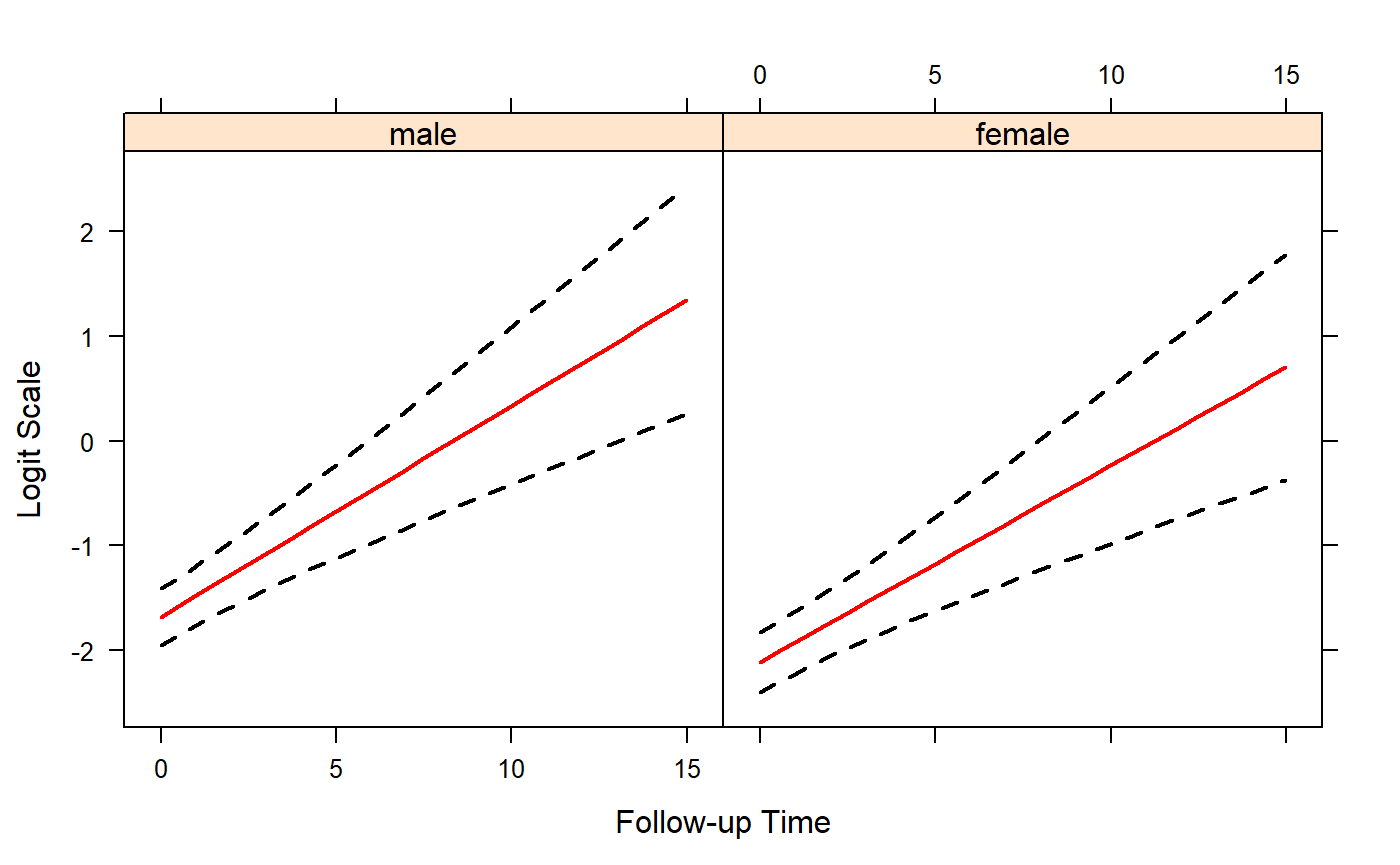
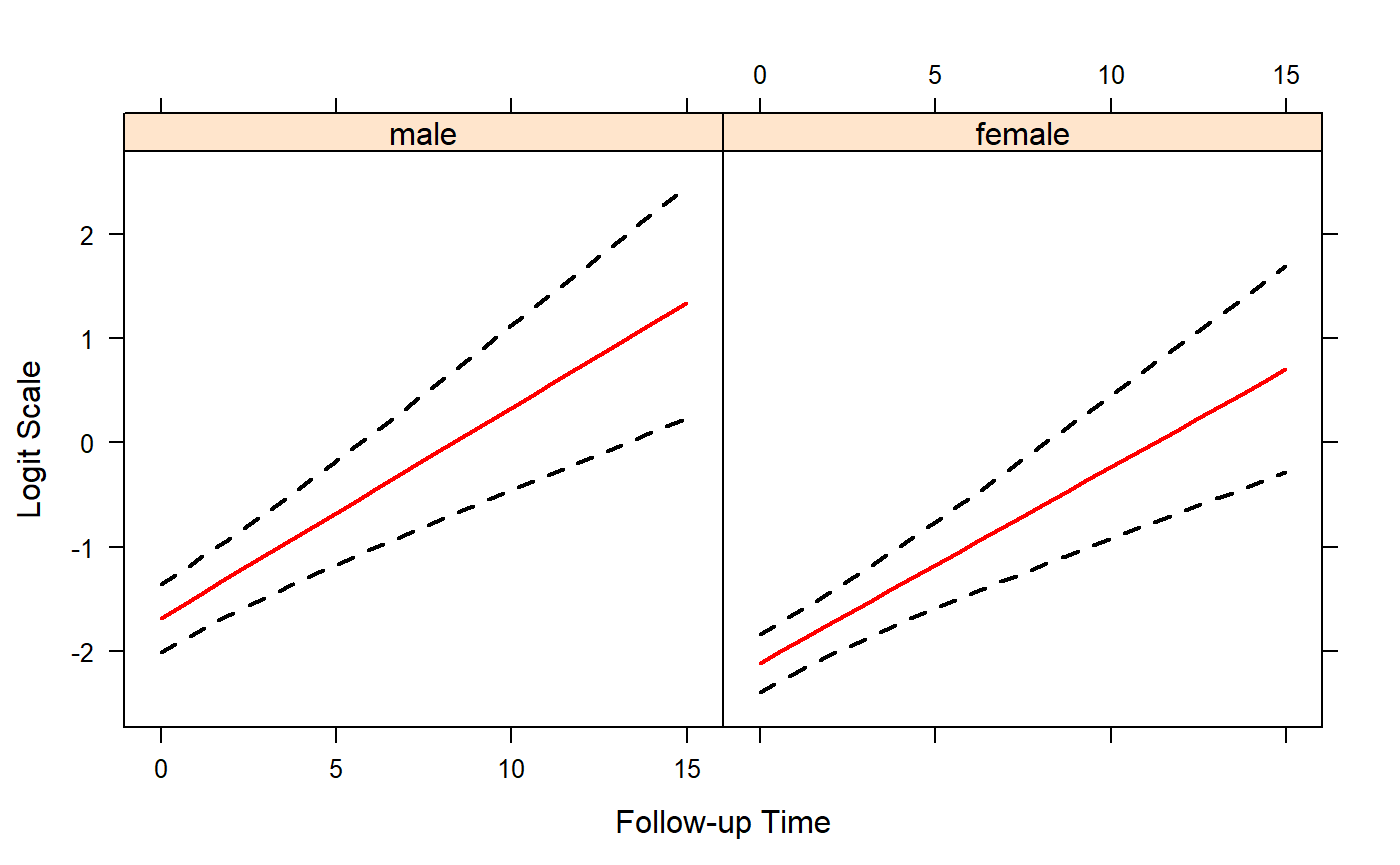
CRAN version 0.3-0

diff --git a/docs/articles/Custom_Models.html b/docs/articles/Custom_Models.html
@@ -30,7 +30,7 @@
       </button>
       <span class="navbar-brand">
         <a class="navbar-link" href="../index.html">GLMMadaptive</a>
-        <span class="label label-default" data-toggle="tooltip" data-placement="bottom" title="Released package">0.2.99</span>
+        <span class="label label-default" data-toggle="tooltip" data-placement="bottom" title="Released package">0.3.0</span>
       </span>
     </div>
 
@@ -60,6 +60,9 @@
     </li>
     <li>
       <a href="../articles/Methods_MixMod.html">Methods for MixMod Objects</a>
+    </li>
+    <li>
+      <a href="../articles/Multiple_Comparisons.html">Methods for MixMod Objects</a>
     </li>
     <li>
       <a href="../articles/ZeroInflated_and_TwoPart_Models.html">Zero-Inflated and Two-Part Mixed Effects Models</a>
@@ -92,7 +95,7 @@
       <h1>Custom Models</h1>
                         <h4 class="author">Dimitris Rizopoulos</h4>
             
-            <h4 class="date">2018-09-24</h4>
+            <h4 class="date">2018-09-27</h4>
       
       <small class="dont-index">Source: <a href="https://github.com/drizopoulos/GLMMadaptive/blob/master/vignettes/Custom_Models.Rmd"><code>vignettes/Custom_Models.Rmd</code></a></small>
       <div class="hidden name"><code>Custom_Models.Rmd</code></div>
@@ -148,7 +151,7 @@ dd<span class="op">$</span>y &lt;-<span class="st"> </span><span class="kw">rnbi
                         <span class="dt">initial_values =</span> <span class="kw">list</span>(<span class="st">"betas"</span> =<span class="st"> </span><span class="kw">poisson</span>()))
 )
 <span class="co">#&gt;    user  system elapsed </span>
-<span class="co">#&gt;     3.8     0.0     3.8</span>
+<span class="co">#&gt;    3.72    0.01    3.74</span>
 
 fm1
 <span class="co">#&gt; </span>
@@ -221,7 +224,7 @@ fm1
                         <span class="dt">initial_values =</span> <span class="kw">list</span>(<span class="st">"betas"</span> =<span class="st"> </span><span class="kw">poisson</span>()))
 )
 <span class="co">#&gt;    user  system elapsed </span>
-<span class="co">#&gt;    1.31    0.03    1.35</span>
+<span class="co">#&gt;    1.42    0.03    1.47</span>
 
 fm2
 <span class="co">#&gt; </span>
@@ -441,11 +444,11 @@ gm
 <span class="co">#&gt;  1.379027 </span>
 <span class="co">#&gt; </span>
 <span class="co">#&gt; log-Lik: 1482.692</span></code></pre></div>
-<p>To depict the results of the model we create an effects plot, showing the longitudinal evolution of the average/median male and female. We start by constructing the data frame that contains the values we want to depict, and using it in the <code><a href="../reference/effectPlotData.html">effectPlotData()</a></code> function:</p>
+<p>To depict the results of the model we create an effects plot, showing the longitudinal evolution of the average/median male and female. We start by constructing the data frame that contains the values we want to depict, and using it in the <code><a href="../reference/effectPlotData.html">effectPlotData()</a></code> function; just for illustration, sandwich/robust standard errors are used in the calculation of the 95% poinwise cofidence intervals:</p>
 <div class="sourceCode"><pre class="sourceCode r"><code class="sourceCode r">nDF &lt;-<span class="st"> </span><span class="kw">with</span>(DF, <span class="kw">expand.grid</span>(<span class="dt">time =</span> <span class="kw">seq</span>(<span class="kw">min</span>(time), <span class="kw">max</span>(time), <span class="dt">length =</span> <span class="dv">25</span>),
                             <span class="dt">sex =</span> <span class="kw">levels</span>(sex)))
 
-plot_data &lt;-<span class="st"> </span><span class="kw"><a href="../reference/effectPlotData.html">effectPlotData</a></span>(gm, nDF)</code></pre></div>
+plot_data &lt;-<span class="st"> </span><span class="kw"><a href="../reference/effectPlotData.html">effectPlotData</a></span>(gm, nDF, <span class="dt">sandwich =</span> <span class="ot">TRUE</span>)</code></pre></div>
 <p>The figure is created with a call to <code>xyplot()</code> from the <a href="https://cran.r-project.org/package=lattice"><strong>lattice</strong></a> package:</p>
 <div class="sourceCode"><pre class="sourceCode r"><code class="sourceCode r"><span class="kw">library</span>(<span class="st">"lattice"</span>)
 <span class="kw">xyplot</span>(pred <span class="op">+</span><span class="st"> </span>low <span class="op">+</span><span class="st"> </span>upp <span class="op">~</span><span class="st"> </span>time <span class="op">|</span><span class="st"> </span>sex, <span class="dt">data =</span> plot_data,

diff --git a/docs/reference/marginal_coefs.html b/docs/reference/marginal_coefs.html
@@ -64,7 +64,7 @@ mixed models." />
       </button>
       <span class="navbar-brand">
         <a class="navbar-link" href="../index.html">GLMMadaptive</a>
-        <span class="label label-default" data-toggle="tooltip" data-placement="bottom" title="Released package">0.2.99</span>
+        <span class="label label-default" data-toggle="tooltip" data-placement="bottom" title="Released package">0.3.0</span>
       </span>
     </div>
 
@@ -94,6 +94,9 @@ mixed models." />
     </li>
     <li>
       <a href="../articles/Methods_MixMod.html">Methods for MixMod Objects</a>
+    </li>
+    <li>
+      <a href="../articles/Multiple_Comparisons.html">Methods for MixMod Objects</a>
     </li>
     <li>
       <a href="../articles/ZeroInflated_and_TwoPart_Models.html">Zero-Inflated and Two-Part Mixed Effects Models</a>
@@ -254,10 +257,10 @@ marginalization of regression parameters from mixed models of binary outcomes.
 <span class='fu'><a href='methods.html'>fixef</a></span>(<span class='no'>fm1</span>)</div><div class='output co'>#&gt; (Intercept)        year      group1 year:group1 
 #&gt; -2.88907871  0.19374986 -0.53597641  0.00989955 </div><div class='input'><span class='fu'>marginal_coefs</span>(<span class='no'>fm1</span>)</div><div class='output co'>#&gt; (Intercept)        year      group1 year:group1 
 #&gt;     -1.3193      0.0884     -0.2582      0.0054 </div><div class='input'><span class='fu'>marginal_coefs</span>(<span class='no'>fm1</span>, <span class='kw'>std_errors</span> <span class='kw'>=</span> <span class='fl'>TRUE</span>)</div><div class='output co'>#&gt;               Value Std.Err  z-value  p-value
-#&gt; (Intercept) -1.3193  0.0356 -37.0739  &lt; 1e-04
-#&gt; year         0.0884  0.0018  49.2640  &lt; 1e-04
-#&gt; group1      -0.2582  0.0489  -5.2806  &lt; 1e-04
-#&gt; year:group1  0.0054  0.0022   2.4891 0.012807
+#&gt; (Intercept) -1.3193  0.0394 -33.5234  &lt; 1e-04
+#&gt; year         0.0884  0.0016  57.0078  &lt; 1e-04
+#&gt; group1      -0.2582  0.0550  -4.6910  &lt; 1e-04
+#&gt; year:group1  0.0054  0.0020   2.7264 0.006403
 #&gt; </div></pre>
   </div>
   <div class="col-md-3 hidden-xs hidden-sm" id="sidebar">

diff --git a/docs/articles/ZeroInflated_and_TwoPart_Models.html b/docs/articles/ZeroInflated_and_TwoPart_Models.html
@@ -30,7 +30,7 @@
       </button>
       <span class="navbar-brand">
         <a class="navbar-link" href="../index.html">GLMMadaptive</a>
-        <span class="label label-default" data-toggle="tooltip" data-placement="bottom" title="Released package">0.2.99</span>
+        <span class="label label-default" data-toggle="tooltip" data-placement="bottom" title="Released package">0.3.0</span>
       </span>
     </div>
 
@@ -60,6 +60,9 @@
     </li>
     <li>
       <a href="../articles/Methods_MixMod.html">Methods for MixMod Objects</a>
+    </li>
+    <li>
+      <a href="../articles/Multiple_Comparisons.html">Methods for MixMod Objects</a>
     </li>
     <li>
       <a href="../articles/ZeroInflated_and_TwoPart_Models.html">Zero-Inflated and Two-Part Mixed Effects Models</a>
@@ -92,7 +95,7 @@
       <h1>Zero-Inflated and Two-Part Mixed Effects Models</h1>
                         <h4 class="author">Dimitris Rizopoulos</h4>
             
-            <h4 class="date">2018-09-24</h4>
+            <h4 class="date">2018-09-27</h4>
       
       <small class="dont-index">Source: <a href="https://github.com/drizopoulos/GLMMadaptive/blob/master/vignettes/ZeroInflated_and_TwoPart_Models.Rmd"><code>vignettes/ZeroInflated_and_TwoPart_Models.Rmd</code></a></small>
       <div class="hidden name"><code>ZeroInflated_and_TwoPart_Models.Rmd</code></div>

diff --git a/docs/articles/GLMMadaptive_basics.html b/docs/articles/GLMMadaptive_basics.html
@@ -30,7 +30,7 @@
       </button>
       <span class="navbar-brand">
         <a class="navbar-link" href="../index.html">GLMMadaptive</a>
-        <span class="label label-default" data-toggle="tooltip" data-placement="bottom" title="Released package">0.2.99</span>
+        <span class="label label-default" data-toggle="tooltip" data-placement="bottom" title="Released package">0.3.0</span>
       </span>
     </div>
 
@@ -60,6 +60,9 @@
     </li>
     <li>
       <a href="../articles/Methods_MixMod.html">Methods for MixMod Objects</a>
+    </li>
+    <li>
+      <a href="../articles/Multiple_Comparisons.html">Methods for MixMod Objects</a>
     </li>
     <li>
       <a href="../articles/ZeroInflated_and_TwoPart_Models.html">Zero-Inflated and Two-Part Mixed Effects Models</a>
@@ -92,7 +95,7 @@
       <h1>GLMMadaptive Basics</h1>
                         <h4 class="author">Dimitris Rizopoulos</h4>
             
-            <h4 class="date">2018-09-24</h4>
+            <h4 class="date">2018-09-27</h4>
       
       <small class="dont-index">Source: <a href="https://github.com/drizopoulos/GLMMadaptive/blob/master/vignettes/GLMMadaptive_basics.Rmd"><code>vignettes/GLMMadaptive_basics.Rmd</code></a></small>
       <div class="hidden name"><code>GLMMadaptive_basics.Rmd</code></div>

diff --git a/docs/articles/Methods_MixMod.html b/docs/articles/Methods_MixMod.html
@@ -30,7 +30,7 @@
       </button>
       <span class="navbar-brand">
         <a class="navbar-link" href="../index.html">GLMMadaptive</a>
-        <span class="label label-default" data-toggle="tooltip" data-placement="bottom" title="Released package">0.2.99</span>
+        <span class="label label-default" data-toggle="tooltip" data-placement="bottom" title="Released package">0.3.0</span>
       </span>
     </div>
 
@@ -60,6 +60,9 @@
     </li>
     <li>
       <a href="../articles/Methods_MixMod.html">Methods for MixMod Objects</a>
+    </li>
+    <li>
+      <a href="../articles/Multiple_Comparisons.html">Methods for MixMod Objects</a>
     </li>
     <li>
       <a href="../articles/ZeroInflated_and_TwoPart_Models.html">Zero-Inflated and Two-Part Mixed Effects Models</a>
@@ -92,7 +95,7 @@
       <h1>Methods for MixMod Objects</h1>
                         <h4 class="author">Dimitris Rizopoulos</h4>
             
-            <h4 class="date">2018-09-24</h4>
+            <h4 class="date">2018-09-27</h4>
       
       <small class="dont-index">Source: <a href="https://github.com/drizopoulos/GLMMadaptive/blob/master/vignettes/Methods_MixMod.Rmd"><code>vignettes/Methods_MixMod.Rmd</code></a></small>
       <div class="hidden name"><code>Methods_MixMod.Rmd</code></div>

diff --git a/docs/reference/GLMMadaptive.html b/docs/reference/GLMMadaptive.html
@@ -65,7 +65,7 @@ Gaussian quadrature rule." />
       </button>
       <span class="navbar-brand">
         <a class="navbar-link" href="../index.html">GLMMadaptive</a>
-        <span class="label label-default" data-toggle="tooltip" data-placement="bottom" title="Released package">0.2.99</span>
+        <span class="label label-default" data-toggle="tooltip" data-placement="bottom" title="Released package">0.3.0</span>
       </span>
     </div>
 
@@ -95,6 +95,9 @@ Gaussian quadrature rule." />
     </li>
     <li>
       <a href="../articles/Methods_MixMod.html">Methods for MixMod Objects</a>
+    </li>
+    <li>
+      <a href="../articles/Multiple_Comparisons.html">Methods for MixMod Objects</a>
     </li>
     <li>
       <a href="../articles/ZeroInflated_and_TwoPart_Models.html">Zero-Inflated and Two-Part Mixed Effects Models</a>
@@ -144,8 +147,8 @@ Gaussian quadrature rule.</p>
     <table class='table'>
 <tr><td>Package:</td><td>GLMMadaptive</td></tr>
 <tr><td>Type:</td><td>Package</td></tr>
-<tr><td>Version:</td><td>0.2-99</td></tr>
-<tr><td>Date:</td><td>2018-09-24</td></tr>
+<tr><td>Version:</td><td>0.3-0</td></tr>
+<tr><td>Date:</td><td>2018-09-27</td></tr>
 <tr><td>License:</td><td>GPL (&gt;=3)</td></tr>
 <tr><td></td><td>Package:</td></tr>
 </table>

diff --git a/docs/articles/index.html b/docs/articles/index.html
@@ -61,7 +61,7 @@
       </button>
       <span class="navbar-brand">
         <a class="navbar-link" href="../index.html">GLMMadaptive</a>
-        <span class="label label-default" data-toggle="tooltip" data-placement="bottom" title="Released package">0.2.99</span>
+        <span class="label label-default" data-toggle="tooltip" data-placement="bottom" title="Released package">0.3.0</span>
       </span>
     </div>
 
@@ -91,6 +91,9 @@
     </li>
     <li>
       <a href="../articles/Methods_MixMod.html">Methods for MixMod Objects</a>
+    </li>
+    <li>
+      <a href="../articles/Multiple_Comparisons.html">Methods for MixMod Objects</a>
     </li>
     <li>
       <a href="../articles/ZeroInflated_and_TwoPart_Models.html">Zero-Inflated and Two-Part Mixed Effects Models</a>
@@ -132,6 +135,7 @@
         <li><a href="Custom_Models.html">Custom Models</a></li>
         <li><a href="GLMMadaptive_basics.html">GLMMadaptive Basics</a></li>
         <li><a href="Methods_MixMod.html">Methods for MixMod Objects</a></li>
+        <li><a href="Multiple_Comparisons.html">Methods for MixMod Objects</a></li>
         <li><a href="ZeroInflated_and_TwoPart_Models.html">Zero-Inflated and Two-Part Mixed Effects Models</a></li>
       </ul>
     </div>

diff --git a/docs/reference/negative_binomial.html b/docs/reference/negative_binomial.html
@@ -64,7 +64,7 @@ model, using mixed_model()." />
       </button>
       <span class="navbar-brand">
         <a class="navbar-link" href="../index.html">GLMMadaptive</a>
-        <span class="label label-default" data-toggle="tooltip" data-placement="bottom" title="Released package">0.2.99</span>
+        <span class="label label-default" data-toggle="tooltip" data-placement="bottom" title="Released package">0.3.0</span>
       </span>
     </div>
 
@@ -94,6 +94,9 @@ model, using mixed_model()." />
     </li>
     <li>
       <a href="../articles/Methods_MixMod.html">Methods for MixMod Objects</a>
+    </li>
+    <li>
+      <a href="../articles/Multiple_Comparisons.html">Methods for MixMod Objects</a>
     </li>
     <li>
       <a href="../articles/ZeroInflated_and_TwoPart_Models.html">Zero-Inflated and Two-Part Mixed Effects Models</a>

diff --git a/docs/reference/mixed_model.html b/docs/reference/mixed_model.html
@@ -64,7 +64,7 @@ Gaussian quadrature." />
       </button>
       <span class="navbar-brand">
         <a class="navbar-link" href="../index.html">GLMMadaptive</a>
-        <span class="label label-default" data-toggle="tooltip" data-placement="bottom" title="Released package">0.2.99</span>
+        <span class="label label-default" data-toggle="tooltip" data-placement="bottom" title="Released package">0.3.0</span>
       </span>
     </div>
 
@@ -94,6 +94,9 @@ Gaussian quadrature." />
     </li>
     <li>
       <a href="../articles/Methods_MixMod.html">Methods for MixMod Objects</a>
+    </li>
+    <li>
+      <a href="../articles/Multiple_Comparisons.html">Methods for MixMod Objects</a>
     </li>
     <li>
       <a href="../articles/ZeroInflated_and_TwoPart_Models.html">Zero-Inflated and Two-Part Mixed Effects Models</a>

diff --git a/docs/reference/effectPlotData.html b/docs/reference/effectPlotData.html
@@ -64,7 +64,7 @@ effects plot." />
       </button>
       <span class="navbar-brand">
         <a class="navbar-link" href="../index.html">GLMMadaptive</a>
-        <span class="label label-default" data-toggle="tooltip" data-placement="bottom" title="Released package">0.2.99</span>
+        <span class="label label-default" data-toggle="tooltip" data-placement="bottom" title="Released package">0.3.0</span>
       </span>
     </div>
 
@@ -94,6 +94,9 @@ effects plot." />
     </li>
     <li>
       <a href="../articles/Methods_MixMod.html">Methods for MixMod Objects</a>
+    </li>
+    <li>
+      <a href="../articles/Multiple_Comparisons.html">Methods for MixMod Objects</a>
     </li>
     <li>
       <a href="../articles/ZeroInflated_and_TwoPart_Models.html">Zero-Inflated and Two-Part Mixed Effects Models</a>

diff --git a/docs/news/index.html b/docs/news/index.html
@@ -61,7 +61,7 @@
       </button>
       <span class="navbar-brand">
         <a class="navbar-link" href="../index.html">GLMMadaptive</a>
-        <span class="label label-default" data-toggle="tooltip" data-placement="bottom" title="Released package">0.2.99</span>
+        <span class="label label-default" data-toggle="tooltip" data-placement="bottom" title="Released package">0.3.0</span>
       </span>
     </div>
 
@@ -91,6 +91,9 @@
     </li>
     <li>
       <a href="../articles/Methods_MixMod.html">Methods for MixMod Objects</a>
+    </li>
+    <li>
+      <a href="../articles/Multiple_Comparisons.html">Methods for MixMod Objects</a>
     </li>
     <li>
       <a href="../articles/ZeroInflated_and_TwoPart_Models.html">Zero-Inflated and Two-Part Mixed Effects Models</a>

diff --git a/docs/reference/index.html b/docs/reference/index.html
@@ -61,7 +61,7 @@
       </button>
       <span class="navbar-brand">
         <a class="navbar-link" href="../index.html">GLMMadaptive</a>
-        <span class="label label-default" data-toggle="tooltip" data-placement="bottom" title="Released package">0.2.99</span>
+        <span class="label label-default" data-toggle="tooltip" data-placement="bottom" title="Released package">0.3.0</span>
       </span>
     </div>
 
@@ -91,6 +91,9 @@
     </li>
     <li>
       <a href="../articles/Methods_MixMod.html">Methods for MixMod Objects</a>
+    </li>
+    <li>
+      <a href="../articles/Multiple_Comparisons.html">Methods for MixMod Objects</a>
     </li>
     <li>
       <a href="../articles/ZeroInflated_and_TwoPart_Models.html">Zero-Inflated and Two-Part Mixed Effects Models</a>
